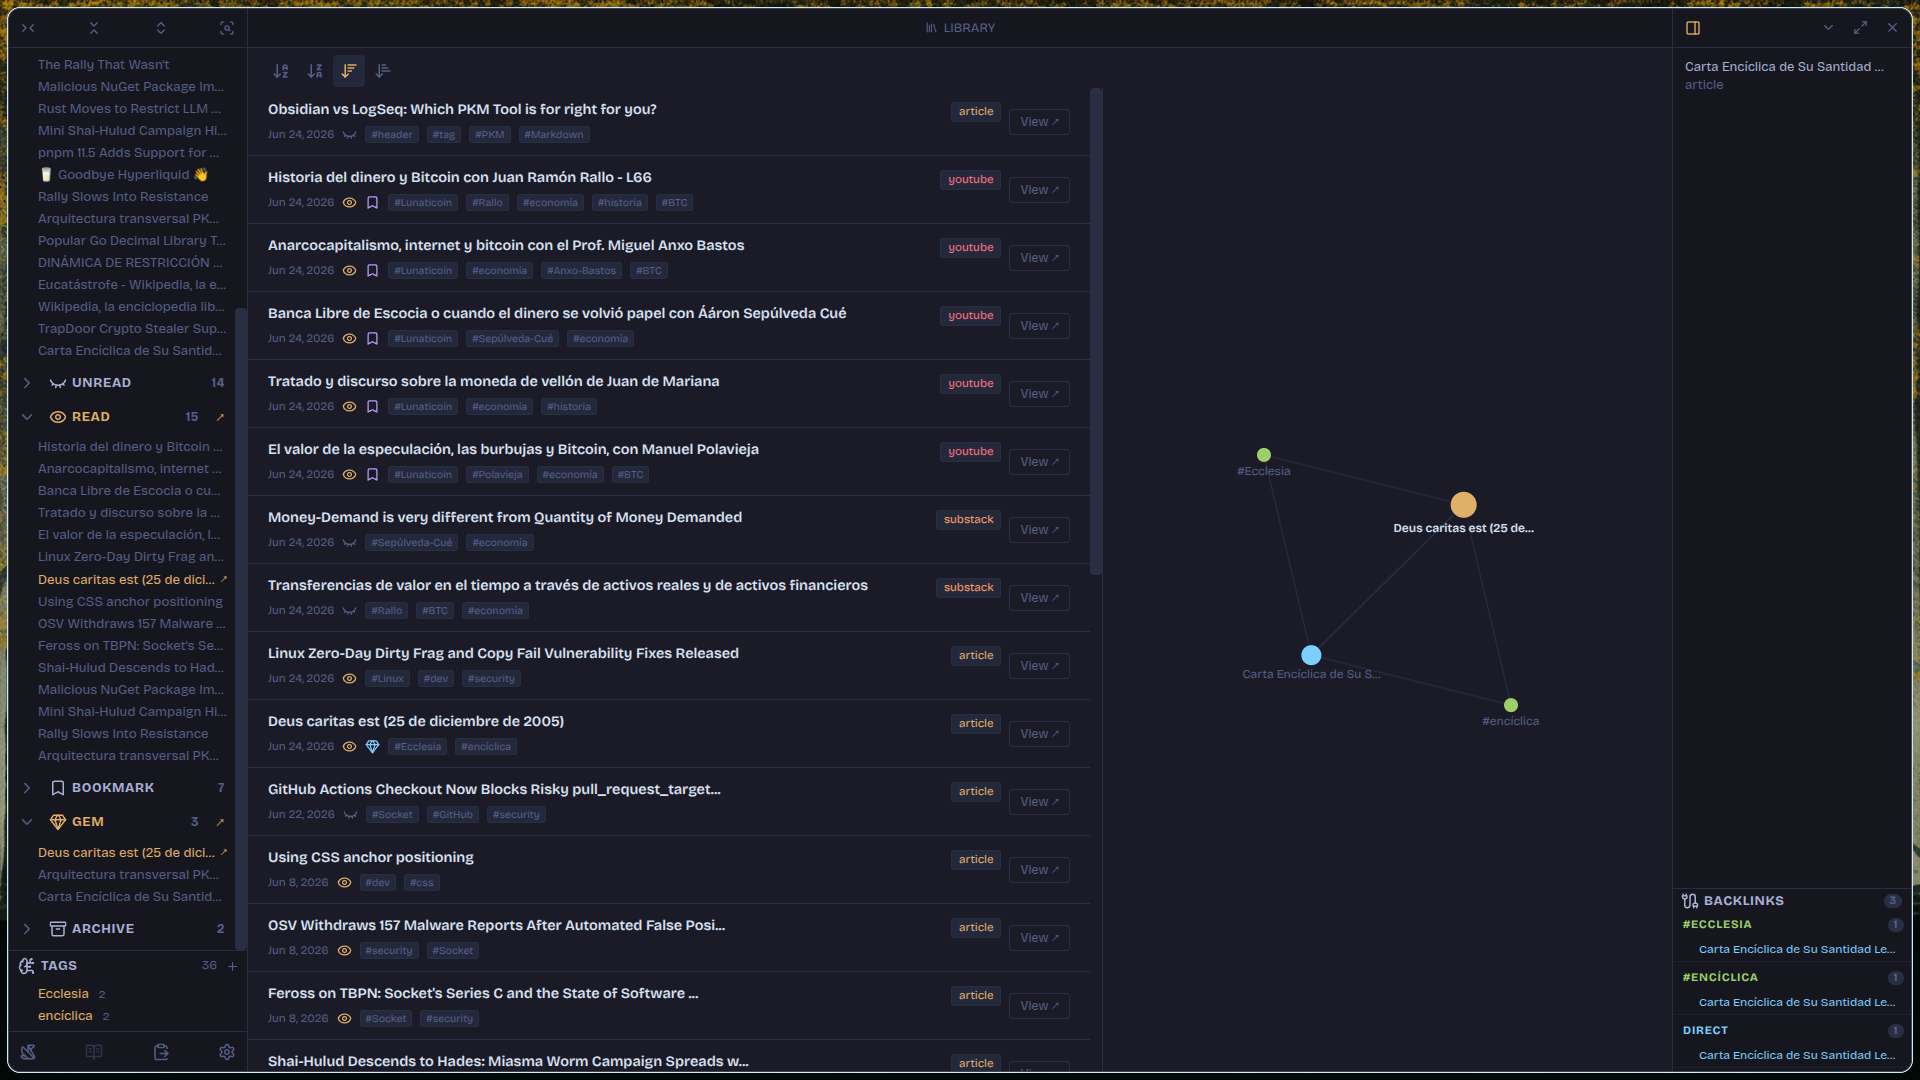
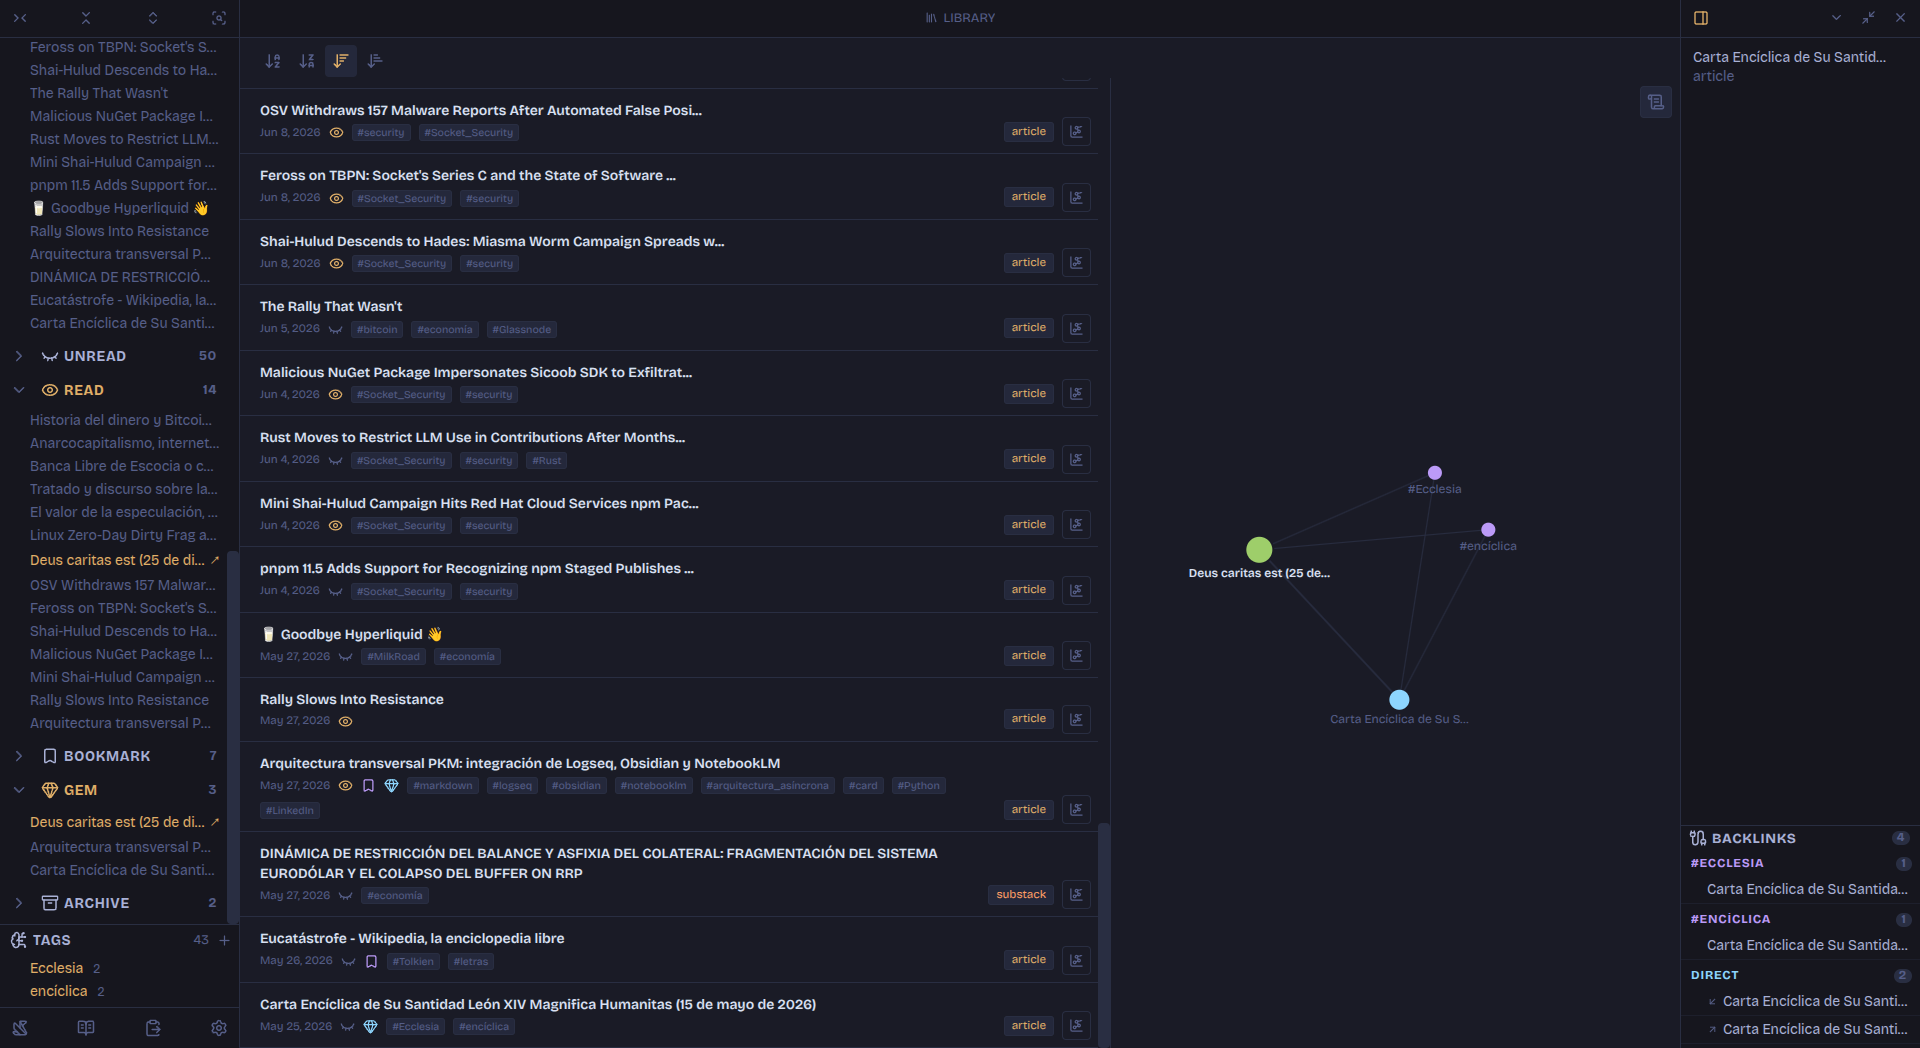
docs(readme): add TAGS dashboard screenshot, restack screenshots section
Replace the two-column dashboard/reading-view table with a single
stacked list of all four screenshots (library, collecta, reading
view, tags) and refresh the three existing captures to match the
current UI.

diff --git a/README.md b/README.md
@@ -31,11 +31,10 @@ Analecta is a local Linux desktop application that turns any URL — article, Yo
 
 ## Screenshots
 
-| Dashboard | Reading view |
-|----------|-------------|
-| ![Library dashboard](.github/assets/1-library.png) | ![Reading view](.github/assets/3-reading-view.png) |
-
+![Library dashboard](.github/assets/1-library.png)
 ![COLLECTA dashboard](.github/assets/2-collecta.png)
+![Reading view](.github/assets/3-reading-view.png)
+![TAGS dashboard](.github/assets/4-tags.png)
 
 ## Download
 
